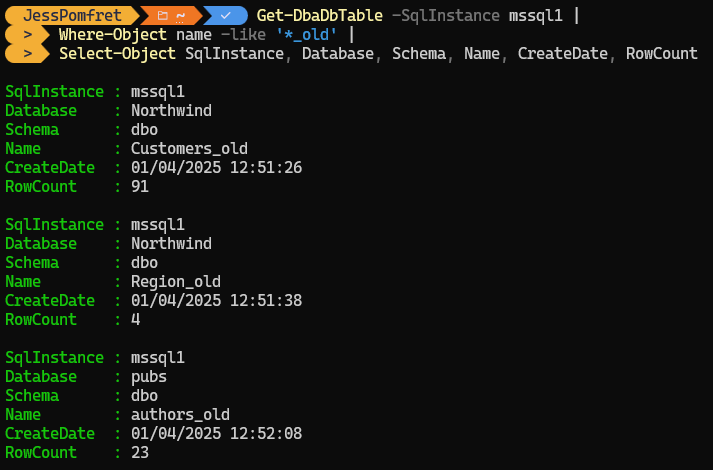
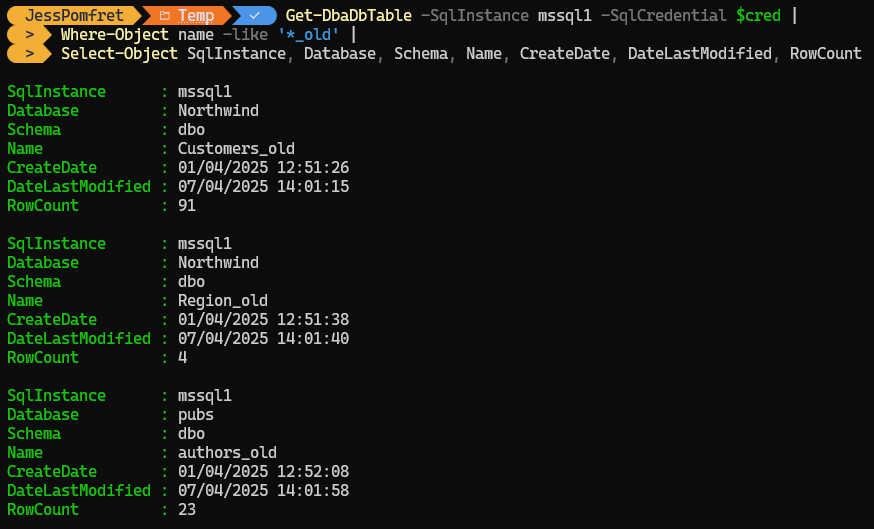
added pic

Changed region(s): [[0.0, 0.0, 0.9874, 0.417], [0.0, 0.4468, 0.432, 0.983]]

diff --git a/blog/content/post/2025/find-old-tables/index.md b/blog/content/post/2025/find-old-tables/index.md
@@ -57,3 +57,5 @@ Get-DbaDbTable -SqlInstance mssql1 |
 Where-Object name -like '*_old' |
 Remove-DbaDbTable
 ```
+
+That's it! Just a quick one today, but go and have a look around your environment and see if there are `_old` tables that could be cleaned up.
